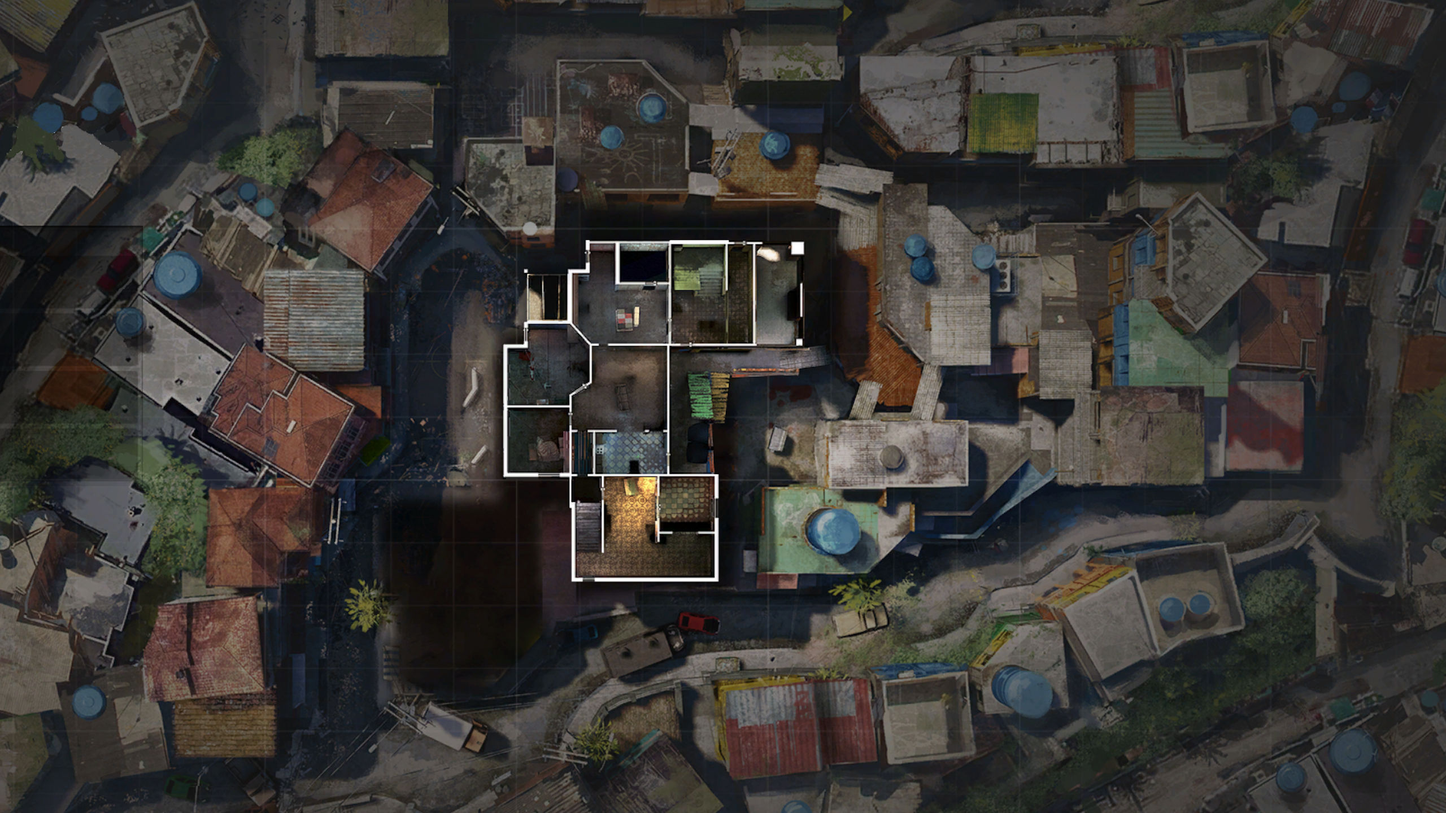
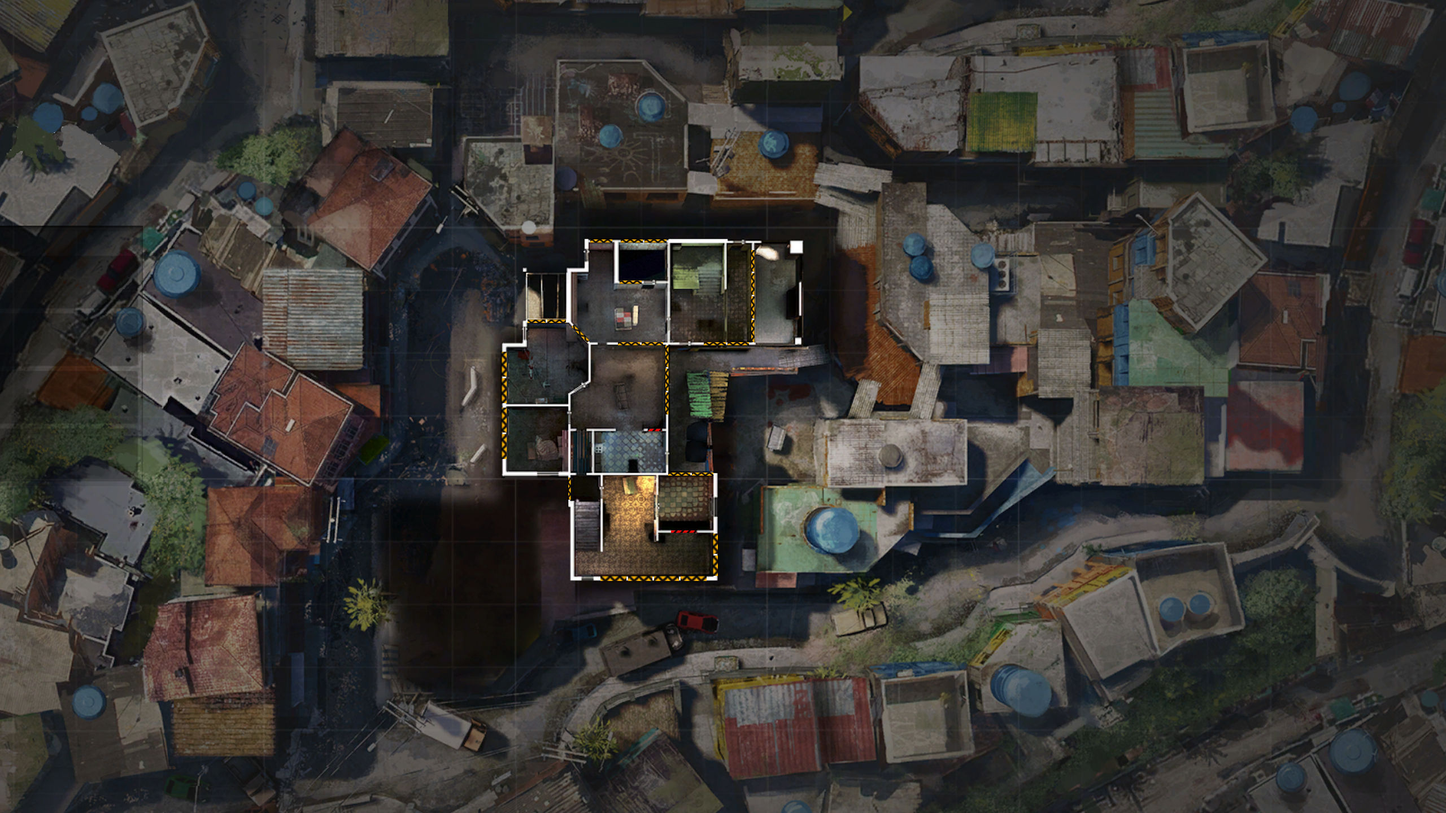
Updated favelas map images to include destructible walls

diff --git a/site/js/r6-maps.map-data.js b/site/js/r6-maps.map-data.js
@@ -771,9 +771,9 @@ var R6MapsData = (function(R6MapsLangTerms, undefined){
         ],
         floors: [
           { index: 1, top: -715, left: -1275, background: true, name: floorTerms.firstFloor, default: true },
-          { index: 2, top: -409, left: -769, name: floorTerms.secondFloor },
-          { index: 3, top: -409, left: -769, name: floorTerms.thirdFloor },
-          { index: 4, top: -409, left: -769, name: floorTerms.roof }
+          { index: 2, top: -411, left: -771, name: floorTerms.secondFloor },
+          { index: 3, top: -411, left: -771, name: floorTerms.thirdFloor },
+          { index: 4, top: -411, left: -771, name: floorTerms.roof }
         ],
         hostageObjectives: [
           { floor: 3, top: -159, left: 114 },
